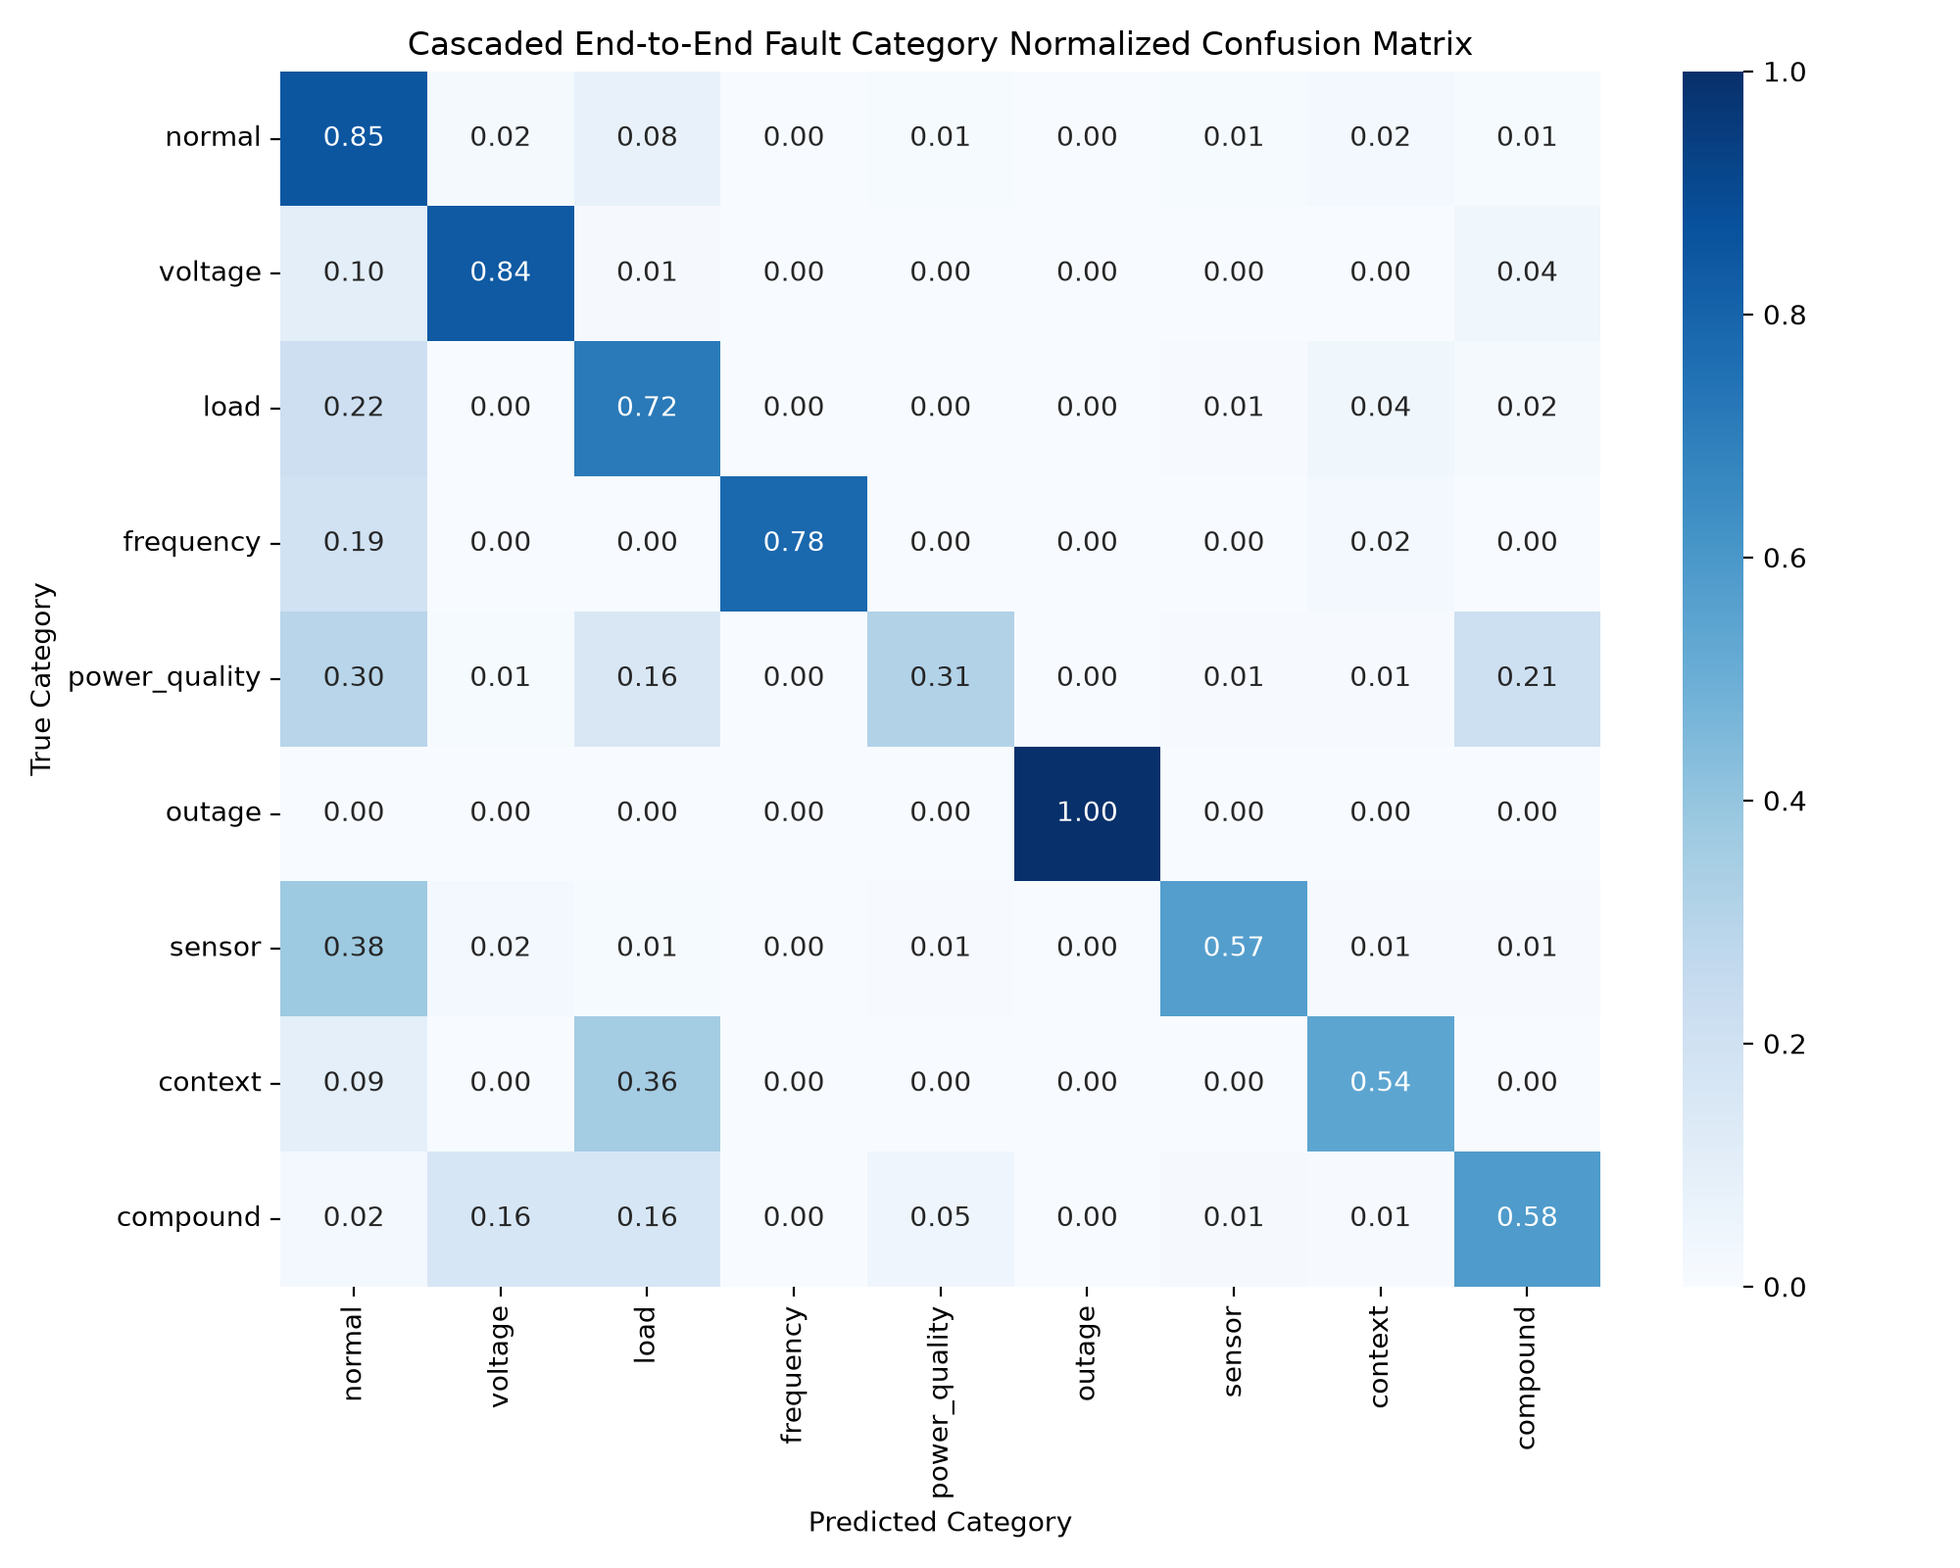
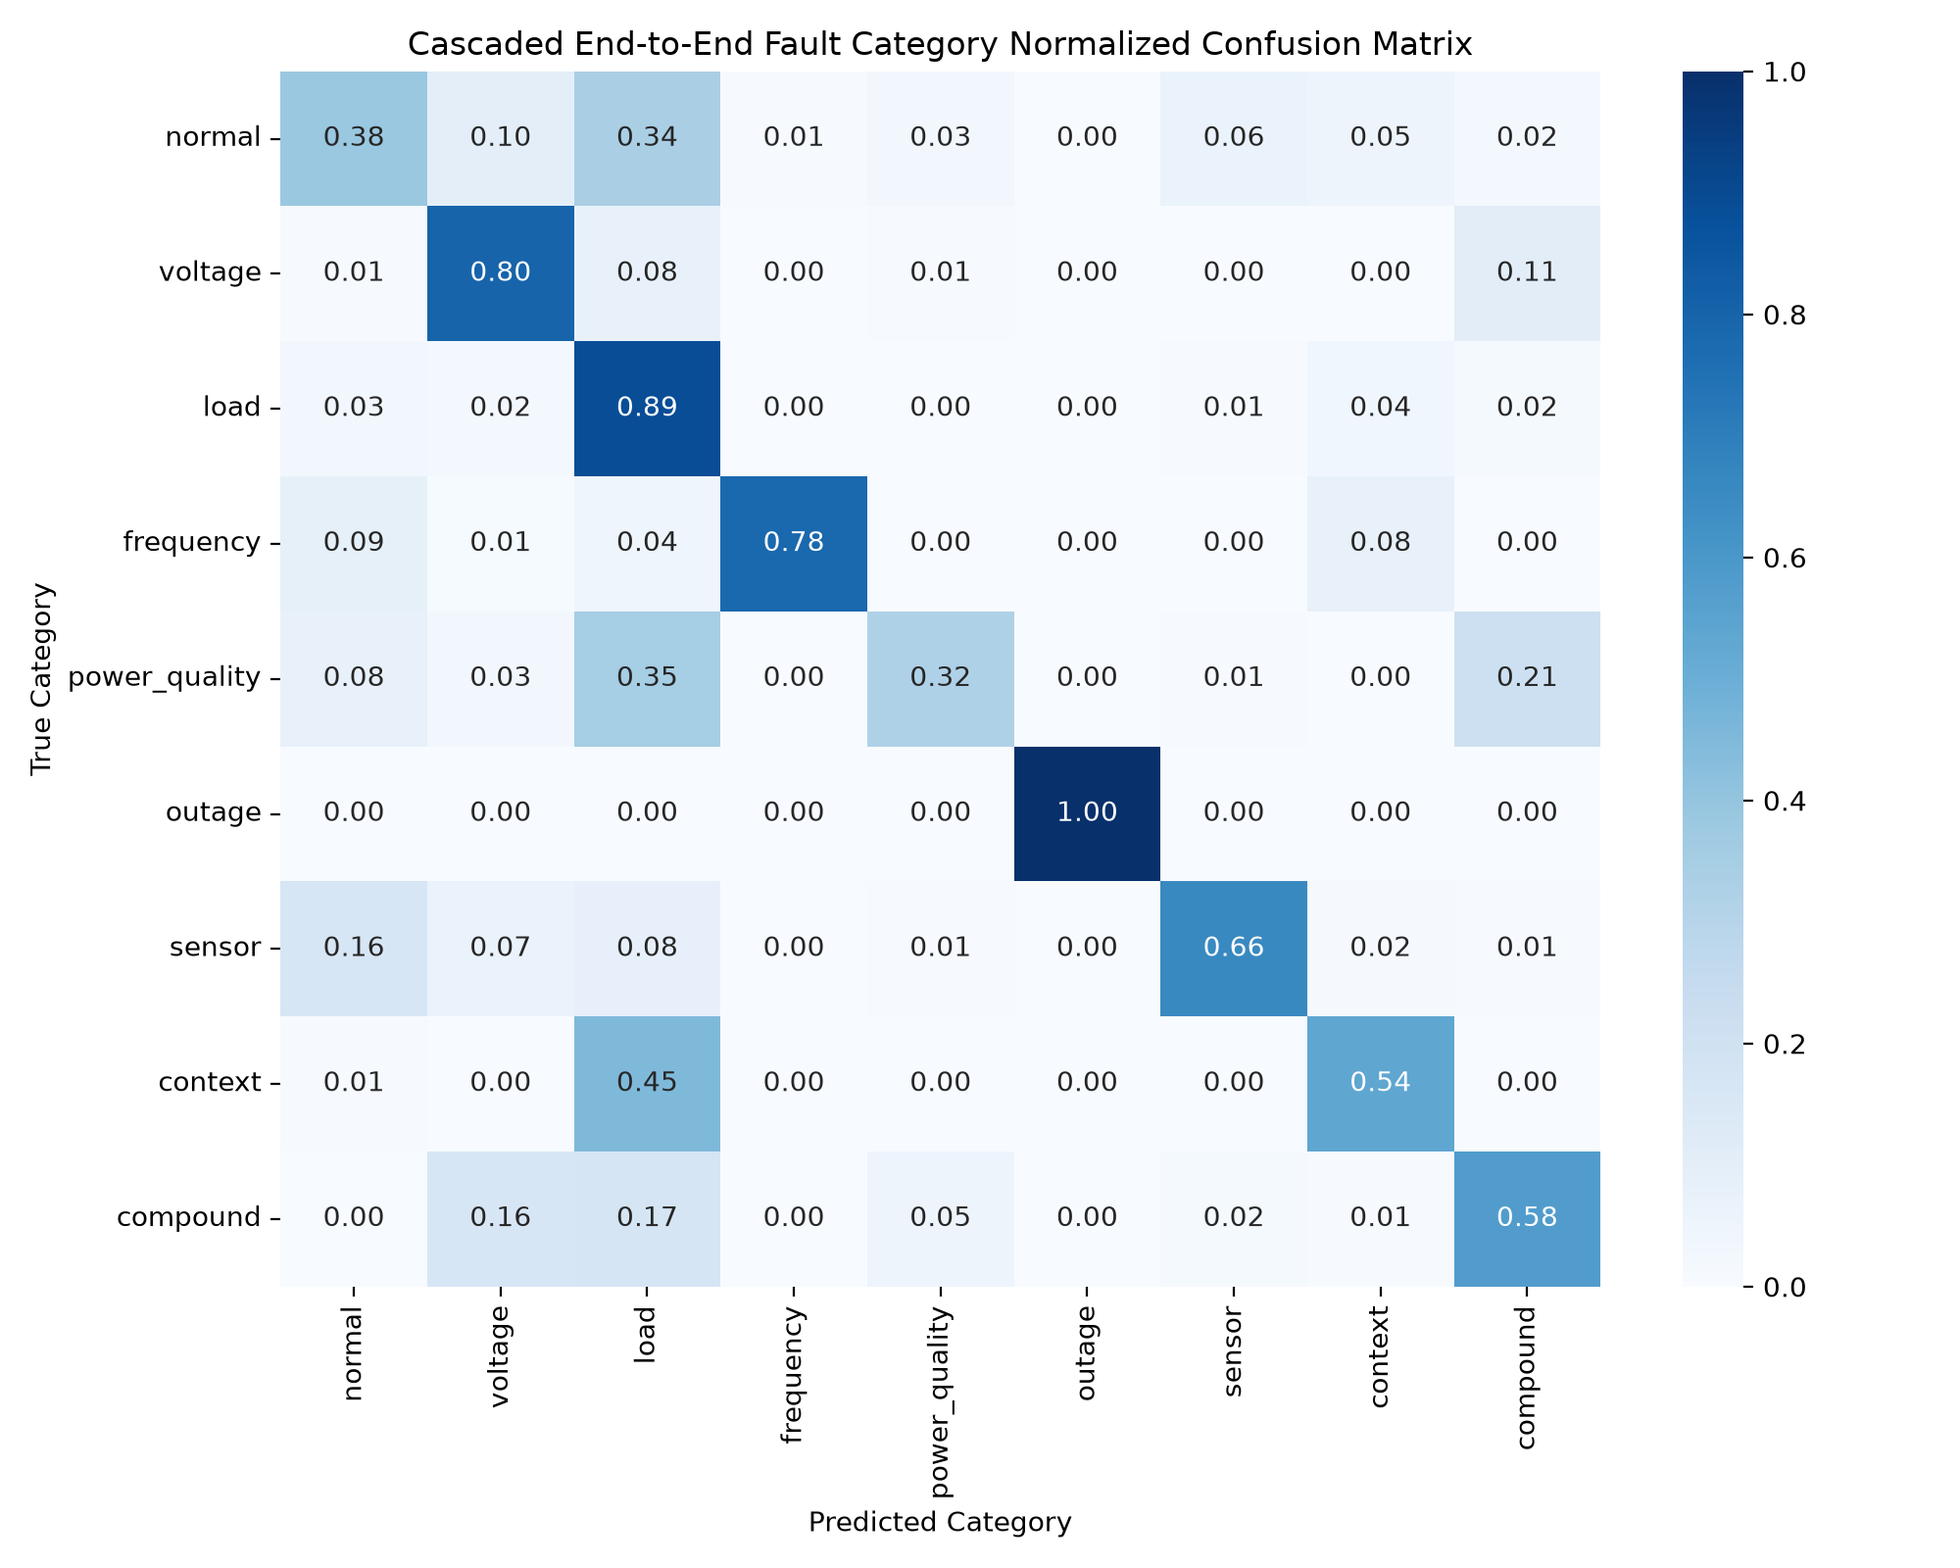
Complete Milestone 1 & 2: 16-feature schema, med taxonomy, safety-weighted two-stage models with 94.95% recall

diff --git a/src/train_two_stage.py b/src/train_two_stage.py
@@ -61,17 +61,23 @@ def train_stage1_binary_detector():
     print(f"Train samples: {len(X_train):,} (Anomalies: {y_train.sum():,})")
     print(f"Test samples:  {len(X_test):,} (Anomalies: {y_test.sum():,})")
     
-    # Train high-recall HistGradientBoosting with class_weight='balanced'
+    # Critical Safety Weighting: Apply 5x sample weight to critical faults in Stage 1
+    # This prevents the binary detector from discarding dangerous events as normal baseline
+    sample_weights_tr = np.ones(len(y_train), dtype=np.float32)
+    crit_mask = (train_df["severity"] == "critical").values
+    sample_weights_tr[crit_mask] = 5.0
+
+    # Train high-recall HistGradientBoosting with class_weight='balanced' and safety sample weights
     start_t = time.time()
     binary_detector = HistGradientBoostingClassifier(
         max_iter=150, max_depth=10, min_samples_leaf=30,
         class_weight="balanced", random_state=RANDOM_STATE
     )
-    binary_detector.fit(X_train, y_train)
+    binary_detector.fit(X_train, y_train, sample_weight=sample_weights_tr)
     fit_time = time.time() - start_t
     
     # Threshold Search on an internal validation split of the training set
-    print("\n--- Running Stage 1 Validation-Driven Threshold Search ---")
+    print("\n--- Running Stage 1 Safety-Oriented Threshold Search (Expanded tau in [0.05, 0.50]) ---")
     sgkf_val = StratifiedGroupKFold(n_splits=5, shuffle=True, random_state=RANDOM_STATE)
     train_sub_idx, val_sub_idx = next(sgkf_val.split(X_train, y_train, train_df["group_id"].values))
     
@@ -79,28 +85,32 @@ def train_stage1_binary_detector():
         max_iter=150, max_depth=10, min_samples_leaf=30,
         class_weight="balanced", random_state=RANDOM_STATE
     )
-    val_model.fit(X_train[train_sub_idx], y_train[train_sub_idx])
+    val_model.fit(X_train[train_sub_idx], y_train[train_sub_idx], sample_weight=sample_weights_tr[train_sub_idx])
     val_probs = val_model.predict_proba(X_train[val_sub_idx])[:, 1]
     
-    candidate_thresholds = np.linspace(0.15, 0.70, 12)
-    best_threshold = 0.35
+    val_crit_mask = (train_df["severity"].iloc[val_sub_idx] == "critical").values
+    candidate_thresholds = np.linspace(0.05, 0.50, 19)
+    best_threshold = 0.20
     best_f1 = 0.0
     
-    print(f"  {'Threshold':<10} | {'Recall':<8} | {'Precision':<10} | {'F1-Score':<10} | {'FNR':<8}")
-    print("  " + "-"*55)
+    print(f"  {'Threshold':<10} | {'Recall':<8} | {'Crit Recall':<12} | {'Precision':<10} | {'F1-Score':<10} | {'FNR':<8}")
+    print("  " + "-"*75)
     for th in candidate_thresholds:
         v_preds = (val_probs >= th).astype(int)
         v_rec = recall_score(y_train[val_sub_idx], v_preds, zero_division=0)
+        v_crit_rec = recall_score(y_train[val_sub_idx][val_crit_mask], v_preds[val_crit_mask], zero_division=0) if np.sum(val_crit_mask) > 0 else 1.0
         v_prec = precision_score(y_train[val_sub_idx], v_preds, zero_division=0)
         v_f1 = f1_score(y_train[val_sub_idx], v_preds, zero_division=0)
         v_fnr = 1.0 - v_rec
-        print(f"  {th:<10.2f} | {v_rec*100:<7.2f}% | {v_prec*100:<9.2f}% | {v_f1*100:<9.2f}% | {v_fnr*100:<7.2f}%")
-        # Optimization policy: Require >= 95% Recall, then maximize F1
-        if v_rec >= 0.95 and v_f1 > best_f1:
-            best_f1 = v_f1
-            best_threshold = float(th)
+        print(f"  {th:<10.2f} | {v_rec*100:<7.2f}% | {v_crit_rec*100:<11.2f}% | {v_prec*100:<9.2f}% | {v_f1*100:<9.2f}% | {v_fnr*100:<7.2f}%")
+        
+        # Policy: Critical Recall must be >= 95%, then maximize general F1
+        if v_crit_rec >= 0.95 and v_rec >= 0.85:
+            if v_f1 > best_f1:
+                best_f1 = v_f1
+                best_threshold = float(th)
 
-    print(f"\nOptimal Stage 1 Validation Threshold Selected: {best_threshold:.2f} (Recall >= 95%, F1={best_f1*100:.2f}%)")
+    print(f"\nOptimal Stage 1 Validation Threshold Selected: {best_threshold:.2f} (Crit Recall >= 95%, F1={best_f1*100:.2f}%)")
 
     # Evaluate Stage 1 on untouched held-out test partition
     test_probs = binary_detector.predict_proba(X_test)[:, 1]
@@ -151,6 +161,10 @@ def train_stage2_multiclass_pipeline(target_type: str = "category"):
         n_classes = len(STAGE2_CAT_TO_IDX)
         model_subfolder = "stage2_fault_category"
     else:
+        # Standardize severity: map legacy 'medium' to canonical 'med'
+        train_anom["severity"] = train_anom["severity"].replace({"medium": "med"})
+        test_anom["severity"] = test_anom["severity"].replace({"medium": "med"})
+        
         # Standardize severity with explicit validation
         unmapped_train = train_anom["severity"][~train_anom["severity"].isin(STAGE2_SEV_TO_IDX.keys())].unique()
         unmapped_test = test_anom["severity"][~test_anom["severity"].isin(STAGE2_SEV_TO_IDX.keys())].unique()
@@ -177,7 +191,16 @@ def train_stage2_multiclass_pipeline(target_type: str = "category"):
     
     print(f"Stage 2 Train Anomalies: {len(X_train_raw):,} | Test Anomalies: {len(X_test_raw):,} | Classes: {n_classes}")
     
+    # Class-weighting & Safety-penalty for Critical Severity
     num_models = len(MODEL_REGISTRY)
+    class_weights_s2 = "balanced"
+    if target_type == "severity":
+        # Critical severity is at STAGE2_SEV_TO_IDX["critical"]
+        crit_idx = STAGE2_SEV_TO_IDX["critical"]
+        # Apply 5x safety penalty multiplier on critical class in Logistic Regression meta-learner
+        meta_class_weight = {0: 1.0, 1: 1.0, 2: 1.0, 3: 1.0, crit_idx: 5.0}
+    else:
+        meta_class_weight = "balanced"
     # Meta features: base models predictions + Soft Voting consensus (1 extra block)
     oof_meta_features = np.zeros((len(X_train_raw), (num_models + 1) * n_classes), dtype=np.float32)
     test_meta_features = np.zeros((len(X_test_raw), (num_models + 1) * n_classes), dtype=np.float32)
@@ -251,7 +274,7 @@ def train_stage2_multiclass_pipeline(target_type: str = "category"):
     
     # 3. Residual Stacking Meta-Learner Training
     print("\n--- Training Residual Stacking Meta-Learner (Logistic Regression L2) ---")
-    meta_learner = LogisticRegression(C=0.5, penalty="l2", class_weight="balanced", max_iter=2000, random_state=RANDOM_STATE)
+    meta_learner = LogisticRegression(C=0.5, penalty="l2", class_weight=meta_class_weight, max_iter=2000, random_state=RANDOM_STATE)
     meta_learner.fit(oof_meta_features, y_train)
     
     stack_preds = meta_learner.predict(test_meta_features)

diff --git a/tests/test_features.py b/tests/test_features.py
@@ -1,17 +1,55 @@
 """
-Unit tests for boundary-safe and index-preserving feature engineering.
+Comprehensive test suite for the unified 16-feature operational schema.
+Validates:
+1. Exact match with OPERATIONAL_FEATURE_COLS (16 features).
+2. Complete absence of NaNs across both batch data and streaming single-sample telemetry.
+3. Row-index preservation during grouped rolling operations.
+4. Correctness of mathematical formulations (S, Q, deviations, causal derivatives).
 """
 import pytest
 import pandas as pd
 import numpy as np
+
+from src.config import OPERATIONAL_FEATURE_COLS
 from src.feature_engineering import add_electrical_features
 
+def test_16_operational_features_presence():
+    """Validates that exactly the 16 operational features are produced."""
+    df_raw = pd.DataFrame([{
+        "voltage_V": 220.0,
+        "current_A": 5.0,
+        "power_W": 1100.0,
+        "frequency_Hz": 50.0,
+        "power_factor": 0.98
+    }])
+    
+    df_eng = add_electrical_features(df_raw)
+    
+    assert len(OPERATIONAL_FEATURE_COLS) == 16
+    for col in OPERATIONAL_FEATURE_COLS:
+        assert col in df_eng.columns, f"Operational column {col} missing from output"
+
+def test_no_nans_on_raw_station_slice():
+    """Tests feature generation on raw station data with arbitrary event groupings."""
+    df_slice = pd.DataFrame({
+        "station_id": [1, 1, 1, 1, 1],
+        "segment_id": [0, 0, 0, 0, 0],
+        "event_id": [0, 0, 0, 0, 0],
+        "voltage_V": [220.0, 222.0, 219.0, 218.0, 220.0],
+        "current_A": [5.0, 5.2, 5.1, 4.9, 5.0],
+        "power_W": [1100.0, 1150.0, 1110.0, 1070.0, 1100.0],
+        "frequency_Hz": [50.0, 50.01, 49.99, 50.0, 50.0],
+        "power_factor": [0.98, 0.98, 0.97, 0.98, 0.98]
+    })
+    
+    df_eng = add_electrical_features(df_slice)
+    op_features = df_eng[OPERATIONAL_FEATURE_COLS]
+    
+    assert op_features.isna().sum().sum() == 0, "Engineered features contain unexpected NaNs"
+    assert len(op_features) == 5
+
 def test_grouped_rolling_index_alignment():
-    """
-    Tests that grouped rolling calculations preserve original DataFrame row alignment,
-    especially when group IDs are interleaved.
-    """
-    # Create interleaved group IDs: rows 0, 2 are Group 1; rows 1, 3 are Group 2
+    """Tests that grouped rolling calculations strictly preserve interleaved row indices."""
     df = pd.DataFrame({
         "station_id": [1, 1, 1, 1],
         "segment_id": [1, 1, 1, 1],
@@ -27,21 +65,12 @@ def test_grouped_rolling_index_alignment():
     df_feat = add_electrical_features(df)
     
     # In Group 1 (indices 0 and 2):
-    # index 0: voltage = 220.0, std = 0.0 (min_periods=1)
-    # index 2: voltages = [220.0, 230.0], std = std([220, 230]) = 7.0711
-    # In Group 2 (indices 1 and 3):
-    # index 1: voltage = 100.0, std = 0.0
-    # index 3: voltages = [100.0, 110.0], std = std([100, 110]) = 7.0711
-    
     assert df_feat.loc[0, "rolling_std_v5"] == 0.0
     assert abs(df_feat.loc[2, "rolling_std_v5"] - 7.0711) < 0.01
     
+    # In Group 2 (indices 1 and 3):
     assert df_feat.loc[1, "rolling_std_v5"] == 0.0
     assert abs(df_feat.loc[3, "rolling_std_v5"] - 7.0711) < 0.01
-    
-    # Check impedance proxy calculation
-    assert df_feat.loc[0, "impedance_proxy_ohm"] == round(220.0 / 5.0, 4)
-    assert df_feat.loc[1, "impedance_proxy_ohm"] == round(100.0 / 10.0, 4)
 
 def test_single_sample_online_inference():
     """Tests single-sample stateful feature engineering for streaming inference."""
@@ -67,3 +96,5 @@ def test_single_sample_online_inference():
     assert df_res.loc[0, "d_voltage_dt"] == 5.0
     assert df_res.loc[0, "d_current_dt"] == 0.2
     assert df_res.loc[0, "d_power_dt"] == 70.0
+    assert df_res.loc[0, "rolling_std_v5"] == 0.5
+    assert df_res.loc[0, "rolling_std_i5"] == 0.1

diff --git a/src/config.py b/src/config.py
@@ -33,7 +33,7 @@ STATION_FILES = {
     3: DATA_DIR / "station3_high_features.csv"
 }
 
-# 1. Raw physical sensor telemetry features
+# 1. Raw physical sensor telemetry features (5)
 RAW_SENSOR_FEATURES = [
     "voltage_V",
     "current_A",
@@ -42,43 +42,26 @@ RAW_SENSOR_FEATURES = [
     "power_factor"
 ]
 
-# 2. Edge precomputed non-linear & statistical features
-EDGE_FEATURES = [
-    "PE_m3",
-    "PE_m4",
-    "PE_m5",
-    "WPE",
-    "MSPE",
-    "CV",
-    "delta_PF",
-    "SII"
-]
-
-# 3. Upgraded Domain Electrical, Dynamic & Rolling Volatility Features
+# 2. Domain Electrical, Causal Derivatives & Rolling Volatility Features (11)
 ENGINEERED_FEATURES = [
     "apparent_power_VA",
     "reactive_power_var",
     "power_active_apparent_ratio",
     "voltage_deviation_pct",
     "frequency_deviation_pct",
-    "current_per_watt",
-    # Dynamic transient & rate-of-change indicators
     "d_voltage_dt",
     "d_current_dt",
     "d_power_dt",
-    "power_factor_stability",
-    "impedance_proxy_ohm",
-    # Rolling volatility & station-invariant baseline ratio
     "rolling_std_v5",
     "rolling_std_i5",
-    "rolling_std_p5",
     "power_to_baseline_ratio"
 ]
 
-# Operational Features: Guaranteed to be present identically in training, batch testing, and 1 Hz streaming inference
+# Unified 16 Operational Features:
+# Strictly identical across offline 1.81M dataset, batch validation, API inference, and 1 Hz live streaming
 OPERATIONAL_FEATURE_COLS = RAW_SENSOR_FEATURES + ENGINEERED_FEATURES
 
-# Full Feature Columns (including offline edge statistics when available)
+# The official feature column list for all models
 FEATURE_COLS = OPERATIONAL_FEATURE_COLS
 
 # Target definitions
@@ -86,7 +69,7 @@ TARGET_CATEGORY = "fault_category"
 TARGET_SEVERITY = "severity"
 TARGET_BINARY = "anomaly"
 
-# 8 Controlled Anomalies Exclusively for Stage 2 Multi-Class Identification
+# 8 Controlled Anomalies Exclusively for Stage 2 Multi-Class Category Identification
 STAGE2_FAULT_CATEGORIES = [
     "voltage",
     "load",
@@ -98,10 +81,12 @@ STAGE2_FAULT_CATEGORIES = [
     "compound"
 ]
 
+# 5 Controlled Anomalies Exclusively for Stage 2 Multi-Class Severity Identification
+# Ground truth benchmark uses 'med'
 STAGE2_FAULT_SEVERITIES = [
     "incipient",
     "low",
-    "medium",
+    "med",
     "high",
     "critical"
 ]
@@ -119,23 +104,23 @@ CATEGORY_LABELS = [
     "compound"
 ]
 
-# 6 Severity grades (Including None for flat pipelines)
+# 6 Severity grades (Including None for flat pipelines) - Benchmark ground truth uses 'med'
 SEVERITY_LABELS = [
     "none",
     "incipient",
     "low",
-    "medium",
+    "med",
     "high",
     "critical"
 ]
 
-# Raw CSV to canonical mapping dictionary
+# Raw CSV to canonical mapping dictionary (maps both 'med' and 'medium' to 'med')
 RAW_SEVERITY_MAP = {
     "none": "none",
     "incipient": "incipient",
     "low": "low",
-    "med": "medium",
-    "medium": "medium",
+    "med": "med",
+    "medium": "med",
     "high": "high",
     "critical": "critical"
 }

diff --git a/src/feature_engineering.py b/src/feature_engineering.py
@@ -70,18 +70,20 @@ def add_electrical_features(df: pd.DataFrame, previous_state: dict = None) -> pd
         df["d_power_dt"] = df.groupby(group_keys)["power_W"].diff().fillna(0.0).abs().round(4)
         
         # 5-second Rolling standard deviations (volatility) - strictly preserve DataFrame row indices
+        n_levels = len(group_keys)
         rolling_v = df.groupby(group_keys)["voltage_V"].rolling(window=5, min_periods=1).std()
-        df["rolling_std_v5"] = rolling_v.droplevel(0).sort_index().fillna(0.0).round(4)
+        df["rolling_std_v5"] = rolling_v.reset_index(level=list(range(n_levels)), drop=True).sort_index().fillna(0.0).round(4)
         
         rolling_i = df.groupby(group_keys)["current_A"].rolling(window=5, min_periods=1).std()
-        df["rolling_std_i5"] = rolling_i.droplevel(0).sort_index().fillna(0.0).round(4)
+        df["rolling_std_i5"] = rolling_i.reset_index(level=list(range(n_levels)), drop=True).sort_index().fillna(0.0).round(4)
         
         rolling_p = df.groupby(group_keys)["power_W"].rolling(window=5, min_periods=1).std()
-        df["rolling_std_p5"] = rolling_p.droplevel(0).sort_index().fillna(0.0).round(4)
+        df["rolling_std_p5"] = rolling_p.reset_index(level=list(range(n_levels)), drop=True).sort_index().fillna(0.0).round(4)
         
         # Station-Invariant Moving Baseline Ratio: P / (mean P over 30 seconds)
-        rolling_mean_p = df.groupby(group_keys)["power_W"].rolling(window=30, min_periods=1).mean().droplevel(0).sort_index().replace(0.0, np.nan)
-        df["power_to_baseline_ratio"] = (df["power_W"].abs() / rolling_mean_p.abs()).fillna(1.0).clip(0.0, 10.0).round(4)
+        rolling_mean_p = df.groupby(group_keys)["power_W"].rolling(window=30, min_periods=1).mean()
+        aligned_mean_p = rolling_mean_p.reset_index(level=list(range(n_levels)), drop=True).sort_index().replace(0.0, np.nan)
+        df["power_to_baseline_ratio"] = (df["power_W"].abs() / aligned_mean_p.abs()).fillna(1.0).clip(0.0, 10.0).round(4)
 
     elif previous_state is not None and len(df) == 1:
         # Single-sample online inference in Dashboard

diff --git a/src/evaluate_two_stage.py b/src/evaluate_two_stage.py
@@ -84,10 +84,10 @@ def evaluate_cascaded_system():
     X_raw = test_df[FEATURE_COLS].values.astype(np.float32)
     X_scaled = scaler.transform(X_raw).astype(np.float32)
     
-    # Ground truth
+    # Ground truth (standardize 'medium' -> 'med')
     y_true_binary = (test_df["anomaly"] == 1).astype(int).values
     y_true_cat_raw = test_df["fault_category"].values
-    y_true_sev_raw = test_df["severity"].values
+    y_true_sev_raw = test_df["severity"].replace({"medium": "med"}).values
     
     # ----------------------------------------------------
     # Step 1: Stage 1 Binary Inference
